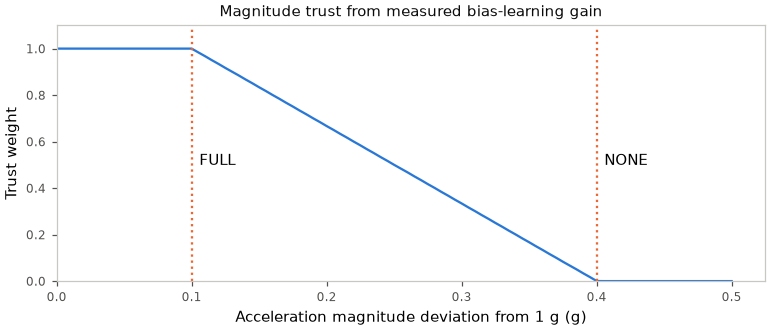
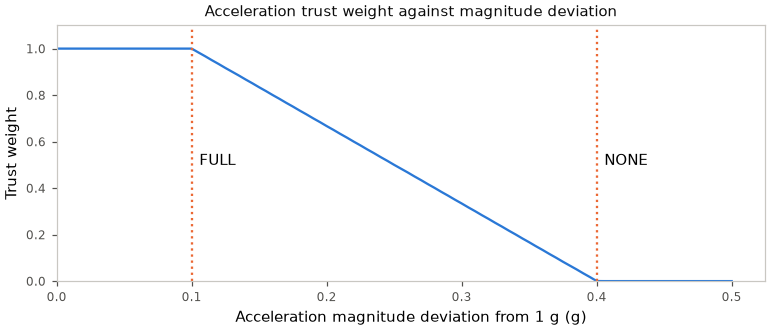
input: clarify gravity reference and trust figure

Changed region(s): [[0.2494, 0.0, 0.8104, 0.0606]]

diff --git a/launcher/tools/input/gravity_figures.py b/launcher/tools/input/gravity_figures.py
@@ -12,7 +12,7 @@ def main():
         axis.annotate(label, (data[key], 0.5), xytext=(5, 0), textcoords="offset points")
     axis.set(xlabel="Acceleration magnitude deviation from 1 g (g)", ylabel="Trust weight",
              ylim=(0, 1.1), xlim=(0, None))
-    style_axes(axis, "Magnitude trust from measured bias-learning gain")
+    style_axes(axis, "Acceleration trust weight against magnitude deviation")
     save(fig, output / "gravity-trust.png")
     fig, axis = subplots(1, 1, (7, 3))
     axis.plot(*zip(*data["bias"]), color=SLOTS[0], label="Learned bias")

diff --git a/launcher/tools/input/gravity_figures_probe.c b/launcher/tools/input/gravity_figures_probe.c
@@ -1,4 +1,4 @@
-/* gravity_figures_probe: measured correction gain and stationary gyro bias settling. */
+/* gravity_figures_probe: correction trust weight (via bias gain at a 0.05 rad tilt) and stationary gyro bias settling. */
 #include <math.h>
 #include <stdio.h>
 

diff --git a/docs/input/Gravity.md b/docs/input/Gravity.md
@@ -1,34 +1,35 @@
 # Gravity
 
 `gravity_t` estimates unit down, linear acceleration, gyro bias, tilt strength and free fall.
-Acceleration cannot distinguish gravity from other forces.
-See [axes](Motion-Axes.md) and [calibration](Motion-Calibration.md).
+Gyro predicts motion; trusted acceleration corrects drift.
+Acceleration cannot distinguish gravity from other forces. See [axes](Motion-Axes.md) and [calibration](Motion-Calibration.md).
 
 ## Update
 
-| Name | Value | Owner | Live tunable in development builds |
-|---|---|---|---|
-| `IMU_READ_HZ` | 50 Hz | `input/motion/imu.c` | `imu.read_ms` |
-| `IMU_FIFO_DRAIN_HZ` | 10 Hz | `input/motion/imu.c` | `imu.drain_ms` |
-| `imu.read_ms` | 20 ms default | `input/motion/imu.c` | Yes |
-| `imu.drain_ms` | 100 ms default | `input/motion/imu.c` | Yes |
-| `IMU_TASK_CORE` | `JOB_CORE1` | `input/motion/imu.c` | No |
-| `IMU_TASK_PRIORITY` | `JOB_CORE1_PRIORITY - 1` | `input/motion/imu.c` | No |
-| `IMU_TASK_BUS_PRIORITY` | `JOB_CORE1_PRIORITY + 1` | `input/motion/imu.c` | No |
-| `IMU_FIFO_SAMPLES` | 128 samples | `input/motion/imu.h` | No |
-| `IMU_SAMPLE_US` / `INPUT_MOTION_SAMPLE_US` | 4460 us | `input/motion/imu.h` / `input/input.h` | No |
+Periods and task settings live in `input/motion/imu.c`; header-owned settings name their owners below.
 
-The interval follows the QMI8658A CTRL2/CTRL3 ODR codes and SensorLib.<sup>[[80]](../Citations.md#80)</sup><sup>[[79]](../Citations.md#79)</sup>
+| Setting | Value | Live tunable / effect |
+|---|---|---|
+| Register read period | 50 Hz (`IMU_READ_HZ`) | `imu.read_ms` |
+| FIFO drain period | 10 Hz (`IMU_FIFO_DRAIN_HZ`) | `imu.drain_ms` |
+| `IMU_TASK_CORE` | `JOB_CORE1` | Core 1 |
+| `IMU_TASK_PRIORITY` | `JOB_CORE1_PRIORITY - 1` | Below job worker |
+| `IMU_TASK_BUS_PRIORITY` | `JOB_CORE1_PRIORITY + 1` | Bus lock has no priority inheritance; a preempted drain holds the bus and FIFO read mode |
+| `IMU_FIFO_SAMPLES` | 128 samples | `input/motion/imu.h` |
+| `IMU_SAMPLE_US` / `INPUT_MOTION_SAMPLE_US` | `1 / ODR` | `input/motion/imu.h` / `input/input.h` |
+
+The interval follows the QMI8658A CTRL2/CTRL3 ODR codes in the datasheet<sup>[[79]](../Citations.md#79)</sup> and SensorLib.<sup>[[80]](../Citations.md#80)</sup>
 `input_device.c` checks the interval and batch capacity against the IMU definitions.
+
+Batches arrive up to one drain period late; a drain delayed past FIFO capacity while core 1 is busy becomes a gap.
+On drain ticks the FIFO supplies the newest sample instead of a register read.
 
 ```mermaid
 flowchart LR
     subgraph Task["IMU task: core 1, below job worker"]
         direction TB
-        Tick["Task tick"] --> Boost["Raise to IMU_TASK_BUS_PRIORITY"]
-        Boost --> Read["Register read"] & Drain["FIFO drain when due"]
-        Read --> Newest["Newest sample"]
-        Drain --> Newest & Queue["Queue: samples + lost_before"]
+        Tick["Task tick"] --> Boost["Raise to IMU_TASK_BUS_PRIORITY"] --> Read["Register read or FIFO drain when due"]
+        Read --> Newest["Newest sample"] & Queue["FIFO samples + lost_before when drained"]
         Newest & Queue --> Drop["Drop to IMU_TASK_PRIORITY"]
     end
     subgraph Frame["Frame reads memory"]
@@ -38,8 +39,6 @@ flowchart LR
     end
     Task --> Frame
 ```
-
-The bus lock has no priority inheritance: a preempted drain holds the bus and the FIFO's read mode.
 
 ```mermaid
 flowchart LR
@@ -59,84 +58,88 @@ flowchart LR
 
 ![Acceleration magnitude trust ramp](../images/input/gravity-trust.png)
 
-| Condition | Effect | Constant |
-|---|---|---|
-| Magnitude deviation from 1 g | Full trust through FULL, linear ramp to zero at NONE (Android tolerance)<sup>[[75]](../Citations.md#75)</sup> | `GRAVITY_TRUST_FULL_G`, `GRAVITY_TRUST_NONE_G` |
-| Positive trust and direction inside reject cone | Pull by `weight * dt / (tau + dt)`, normalize; angular rejection follows Fusion<sup>[[74]](../Citations.md#74)</sup> | `GRAVITY_TAU_S`, `GRAVITY_REJECT_DEG` |
-| Zero acceleration | No correction or distrust counting | - |
-| First nonzero acceleration after reset | Adopt direction exactly, even at zero dt | - |
+| Condition | Effect |
+|---|---|
+| Magnitude deviation from 1 g | Full trust through FULL, linear ramp to zero at NONE (Android tolerance)<sup>[[75]](../Citations.md#75)</sup> |
+| Positive trust and direction inside reject cone | Pull by `weight * dt / (tau + dt)`, normalize; angular rejection follows Fusion<sup>[[74]](../Citations.md#74)</sup> |
+| Zero acceleration | No correction or distrust counting |
+| First nonzero acceleration after reset | Adopt direction exactly, even at zero dt |
 
 ## Recovery
 
-| Condition | Effect | Constant |
-|---|---|---|
-| Rejection | Add dt to debt, clamp at limit; exceeding limit enters recovery (Fusion counter)<sup>[[74]](../Citations.md#74)</sup> | `GRAVITY_RECOVER_US` |
-| Acceptance | Subtract `RECOVER_ACCEPT_WEIGHT * dt` from debt, floor at zero; leave recovery<sup>[[74]](../Citations.md#74)</sup> | `GRAVITY_RECOVER_ACCEPT_WEIGHT` |
-| Recovery with nonzero acceleration | Full TAU gain, bypass rejection until inside cone; preserve bias, no learning or startup ramp<sup>[[74]](../Citations.md#74)</sup> | `GRAVITY_TAU_S` |
-| Corrected gyro below still limit, magnitude within FULL, rejection beyond still timeout | Adopt direction, clear both timers and recovery | `GRAVITY_STILL_DPS`, `GRAVITY_TRUST_FULL_G`, `GRAVITY_STILL_RECOVER_US` |
-| Motion or acceptance | Clear still timer | `GRAVITY_STILL_DPS` |
-| Any raw gyro axis reaches overrange (inclusive) | Maximum debt and recovery; clipped sample still predicts, down and bias preserved. Fusion uses strict greater-than<sup>[[74]](../Citations.md#74)</sup> | `GRAVITY_GYRO_OVERRANGE_DPS` |
+| Condition | Effect |
+|---|---|
+| Rejection | Add dt to debt, clamp at limit; exceeding limit enters recovery (Fusion counter)<sup>[[74]](../Citations.md#74)</sup> |
+| Acceptance | Subtract `RECOVER_ACCEPT_WEIGHT * dt` from debt, floor at zero; leave recovery<sup>[[74]](../Citations.md#74)</sup> |
+| Recovery with nonzero acceleration | Full TAU gain, bypass rejection until inside cone; preserve bias, no learning or startup ramp<sup>[[74]](../Citations.md#74)</sup> |
+| Corrected gyro below still limit, magnitude within FULL, rejection beyond still timeout | Adopt direction, clear both timers and recovery; motion or acceptance clears still timer |
+| Any raw gyro axis reaches overrange (inclusive) | Maximum debt and recovery; clipped sample still predicts, down and bias preserved. Fusion uses strict greater-than<sup>[[74]](../Citations.md#74)</sup> |
 
 ## Bias learning
 
 ![Stationary gyro offset converges within the settling target](../images/input/gravity-bias.png)
 
-| Condition | Effect | Constant |
-|---|---|---|
-| Accepted acceleration | Integrate `cross(down, direction) * weight * dt` before correction; Mahony integral, sign follows minus-cross prediction<sup>[[73]](../Citations.md#73)</sup> | `GRAVITY_BIAS_KI` |
-| Bias reaches per-axis limit | Clamp in deg/s | `GRAVITY_BIAS_MAX_DPS` |
-| Rejection, zero acceleration or recovery | No bias learning | - |
-| Bias along gravity | Unobservable: rotation about down leaves down unchanged | - |
-| Full trust | Target 2% settling for datasheet-sized offset | `GRAVITY_BIAS_SETTLE_S` |
+| Condition | Effect |
+|---|---|
+| Accepted acceleration | Integrate `cross(down, direction) * weight * dt` before correction; Mahony integral, sign follows minus-cross prediction<sup>[[73]](../Citations.md#73)</sup> |
+| Bias reaches per-axis limit | Clamp in deg/s |
+| Rejection, zero acceleration or recovery | No bias learning |
 
-Linearised: `theta' = b_err - theta/TAU`, `b_err' = -KI*theta`; poles satisfy `s^2 + s/TAU + KI = 0`.
-`KI = 4/(TAU*SETTLE_S)` gives an overdamped loop with slow pole approximately `-KI*TAU`.
+Bias along gravity: unobservable, because rotation about down leaves down unchanged. At full trust, the target is 2% settling for a datasheet-sized offset.
+
+```text
+theta' = b_err - theta/TAU; b_err' = -KI*theta
+s^2 + s/TAU + KI = 0; KI = 4/(TAU*SETTLE_S)
+```
+
+The loop is overdamped: slow pole ~ -4/SETTLE_S, so e^-4 ~ 1.8% at SETTLE_S.
 
 ## Constants
 
-The constants are owned by `launcher/main/input/motion/gravity.h`:
-
-| Constant | Value | Source |
+| Constant (`input/motion/gravity.h`) | Value | Source |
 |---|---|---|
-| `GRAVITY_TAU_S` | 0.5 s | Ours, tuned on the board |
+| `GRAVITY_TAU_S` | 0.5 s | Ours |
 | `GRAVITY_TRUST_FULL_G` | 0.1 g | Ours |
 | `GRAVITY_TRUST_NONE_G` | 0.4 g | Android WindowOrientationListener acceleration tolerance, 4 m/s^2<sup>[[75]](../Citations.md#75)</sup> |
 | `GRAVITY_REJECT_DEG` | 10 deg | x-io Fusion acceleration rejection<sup>[[74]](../Citations.md#74)</sup> |
-| `GRAVITY_RECOVER_MS` | 5000 ms | x-io Fusion rejection timeout<sup>[[74]](../Citations.md#74)</sup> |
+| `GRAVITY_RECOVER_MS` | 5000 ms, converted to us | x-io Fusion rejection timeout<sup>[[74]](../Citations.md#74)</sup> |
 | `GRAVITY_RECOVER_ACCEPT_WEIGHT` | 9 | x-io Fusion accepted-sample counter drain<sup>[[74]](../Citations.md#74)</sup> |
-| `GRAVITY_GYRO_OVERRANGE_RATIO` | 0.98 | x-io Fusion gyro overrange ratio<sup>[[74]](../Citations.md#74)</sup> |
-| `GRAVITY_GYRO_OVERRANGE_DPS` | 0.98 × `IMU_GYRO_RANGE_DPS` | Derived from configured IMU full scale<sup>[[74]](../Citations.md#74)</sup> |
-| `GRAVITY_STILL_DPS` | 3 deg/s | Board capture: rest gyro noise peaks at +/-2 deg/s |
-| `GRAVITY_STILL_RECOVER_MS` | 500 ms | Ours, maintainer choice: clear fast-flip error promptly while outlasting a held swing reversal |
-| `GRAVITY_GYRO_OFFSET_TOL_DPS` | 10 deg/s | QMI8658C datasheet, Table 8, board-level initial offset<sup>[[76]](../Citations.md#76)</sup> |
-| `GRAVITY_GYRO_OFFSET_TCO_DPS_PER_C` | 0.05 deg/s/C | QMI8658C datasheet, Table 8<sup>[[76]](../Citations.md#76)</sup> |
-| `GRAVITY_GYRO_TEMP_SPAN_C` | 60 C | 25 C reference to 85 C operating limit<sup>[[76]](../Citations.md#76)</sup> |
-| `GRAVITY_BIAS_MAX_DPS` | 13 deg/s | QMI8658C datasheet, Table 8: initial offset plus temperature drift, 10 + 0.05 * 60<sup>[[76]](../Citations.md#76)</sup> |
-| `GRAVITY_BIAS_SETTLE_S` | 20 s | Ours, target 2% settling for a datasheet-sized offset |
-| `GRAVITY_BIAS_KI` | derived from TAU and SETTLE_S | Linearised integral loop, derived above |
+| `GRAVITY_GYRO_OVERRANGE_RATIO` / `GRAVITY_GYRO_OVERRANGE_DPS` | 0.98 / 0.98 × `IMU_GYRO_RANGE_DPS` | Fusion ratio × configured full scale<sup>[[74]](../Citations.md#74)</sup> |
+| `GRAVITY_STILL_DPS` | 3 deg/s | Above rest gyro noise (about +/-2 deg/s) |
+| `GRAVITY_STILL_RECOVER_MS` | 500 ms | Ours: clears a fast-flip error promptly, outlasts a held swing reversal |
+| `GRAVITY_GYRO_OFFSET_TOL_DPS` + `GRAVITY_GYRO_OFFSET_TCO_DPS_PER_C` × `GRAVITY_GYRO_TEMP_SPAN_C` = `GRAVITY_BIAS_MAX_DPS` | 10 + 0.05 × 60 = 13 deg/s | QMI8658C Table 8: initial offset + drift from 25 C to 85 C<sup>[[76]](../Citations.md#76)</sup> |
+| `GRAVITY_BIAS_SETTLE_S` | 20 s | Ours |
+| `GRAVITY_BIAS_KI` | derived from TAU and SETTLE_S | Linearised integral loop; see Bias learning |
 | `GRAVITY_FREE_FALL_G` | 0.3 g | Acceleration magnitude below which strength is zero |
 | `GRAVITY_MAX_DT_MS` | 100 ms | Maximum prediction and correction interval |
 
 ## Limits
 
-Read-mode loss = duration / `IMU_SAMPLE_US`, carrying fractional microseconds across drains (QMI8658A section 8.7).<sup>[[79]](../Citations.md#79)</sup>
+FIFO read mode discards arrivals (section 8.7), so loss = duration / `IMU_SAMPLE_US`, carrying fractional microseconds across drains.<sup>[[79]](../Citations.md#79)</sup>
 
 | Condition | Effect |
 |---|---|
+| Read-mode exit | Count read before `CTRL9_REQ_FIFO`; CTRL9 polled with no minimum delay; every drain attempts to exit read mode, including errors<sup>[[79]](../Citations.md#79)</sup> |
 | Read-mode timing | `esp_timer`: before `CTRL9_REQ_FIFO` through `REG_FIFO_CTRL` rewrite |
 | Empty drain | Carry loss to next sample |
-| Loss boundary | Hold previous rotation for at most `GRAVITY_MAX_DT_US` |
+| Loss boundary | Hold previous rotation for at most `GRAVITY_MAX_DT_MS` converted to us |
 | FIFO overflow, failed drain, queue overflow or loss beyond `uint8_t` | Mark gap; drop oldest on queue overflow |
 | Gap | Clear pending loss and remainder; restart correction at full TAU gain, preserving down and bias |
 
-Fixed drain periods measure read-mode cost; delivered rate follows ODR * time outside read mode.
+Delivered rate = ODR × (1 - read-mode share); a 500 ms drain loses about half as much as every-frame.
 
-| Drain | Delivered | Time in read mode | 224.2 Hz × (1 − share) |
+SCL stays at 400 kHz, the QMI8658A rating; no bus part states more, and ESP32-S3 stops at 800 kbit/s.<sup>[[79]](../Citations.md#79)</sup><sup>[[66]](../Citations.md#66)</sup>
+A faster SCL shortens read mode.
+
+A clean soak at 800 kHz does not show the slower bus parts read it correctly, and the QMI8658A has no CRC.
+
+<details>
+<summary>Data log: drain periods and SCL</summary>
+
+| Drain | Delivered | Time in read mode | ODR × (1 - share) |
 |---|---|---|---|
 | Every frame | 197.8 Hz | 10.8% | 200.0 Hz |
 | Every 500 ms | 210.4 Hz | 6.1% | 210.5 Hz |
-
-SCL stays at 400 kHz, the QMI8658A rating; no bus part states more, and ESP32-S3 stops at 800 kbit/s.<sup>[[79]](../Citations.md#79)</sup><sup>[[66]](../Citations.md#66)</sup>
 
 Drain every frame, 45 s per speed:
 
@@ -146,14 +149,9 @@ Drain every frame, 45 s per speed:
 | 800 kHz | 212.6 Hz | 5.5% | 1.42 ms | 1.20 ms |
 | 1 MHz | 212.0 Hz | 5.2% | 1.31 ms | - |
 
-A clean 10 min soak at 800 kHz cannot establish reliable reads by slower parts; QMI8658A has no CRC.
-
-Count precedes `CTRL9_REQ_FIFO` (section 8.8); CTRL9 polls without a minimum delay (section 5.10.1); every drain attempts to exit read mode, including errors.<sup>[[79]](../Citations.md#79)</sup>
+</details>
 
 ## Figures
-
-The C probe calls `gravity_update()`: trust is the relative bias-learning gain at a small tilt;
-bias settling uses stationary 1 g and `GRAVITY_GYRO_OFFSET_TOL_DPS` about an observable axis.
 
 ```sh
 python launcher/tools/input/gravity_figures.py --cc cc --out docs/images/input
